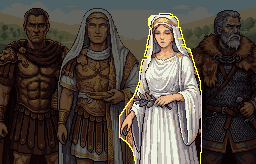
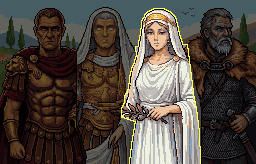
Class-select picker re-made with a seed; the selector and tap zones fitted to it
The picker (2026-09-03) sent no seed and could not be repeated. The job
ui/class_select_picker re-makes it from the same call with seed 2005:
crisper, and each figure closer to its class portrait.

romeart.py classpicker's three dividing lines are placed again on the new
painting's outlines (the old ones cut the Legatus in half), and the old
hand fixes go. The figures are not evenly spaced, so game.json's
class_picker_columns names where each starts, and the class-select
screen's tap zones follow it instead of equal quarters.

diff --git a/tools/romeart.py b/tools/romeart.py
@@ -3438,8 +3438,9 @@ def cmd_classpicker(a):
     """Writes art/ui/class_select_picker_0..3.png from class_select_picker.png
     (read only). The landscape is found scanning each column down to the first
     dark outline (plus short sideways steps under overhangs); the figures
-    overlap, so three hand-placed dividing lines decide whose pixel is whose,
-    and three small hand fixes remain."""
+    overlap, so three hand-placed dividing lines decide whose pixel is whose.
+    The lines (and any hand fixes) are placed for the painting the job
+    ui/class_select_picker made: a new painting needs them placed again."""
     from PIL import ImageChops
     SRC = os.path.join(a.pack, 'art', 'ui', 'class_select_picker.png')
     DIM = 150                  # black over the other figures, out of 255
@@ -3458,9 +3459,10 @@ def cmd_classpicker(a):
             bg[y][x]=True
     # hand-drawn dividers between neighbours: x as a polyline in y
     DIV=[
-     [(60,0),(60,40),(68,48),(65,56),(62,64),(60,72),(58,80),(58,96),(57,120),(58,164)],
-     [(124,0),(124,20),(130,48),(140,56),(142,62),(140,72),(140,80),(134,96),(128,104),(120,116),(120,136),(128,142),(133,150),(136,164)],
-     [(186,0),(186,40),(190,52),(194,66),(199,80),(201,100),(201,140),(199,164)],
+     [(72,0),(72,36),(79,42),(78,44),(77,46),(76,48),(76,58),(77,64),(77,80),(78,96),(80,112),(82,128),(84,144),(86,164)],
+     [(133,0),(133,30),(135,40),(136,50),(137,54),(135,60),(134,64),(132,68),(131,72),(130,76),(129,84),(129,88),
+      (125,96),(125,102),(122,108),(122,116),(136,121),(135,124),(134,130),(133,136),(132,142),(131,150),(130,158),(130,164)],
+     [(186,0),(186,30),(187,48),(189,64),(191,80),(193,96),(196,112),(198,128),(200,164)],
     ]
     def divx(poly,y):
         for (x0,y0),(x1,y1) in zip(poly,poly[1:]):
@@ -3504,13 +3506,8 @@ def cmd_classpicker(a):
                 x=e
             else: x+=1
     # hand fixes: (x0,y0,x1,y1) inclusive
-    FORCE_BG=[(22,33,26,39)]          # trees showing beside the Legatus's neck
-    FORCE_FIG=[(160,15,162,15),(152,16,162,16),(151,17,162,17),(150,18,162,18)]+[(149,y,162,y) for y in range(19,25)]
-                                      # the top of the Sibylla's veil and fillet
-    FORCE_FIG+=[(93,8,101,8),(90,9,104,9),(89,10,107,10),(89,11,107,11),(91,12,108,12),
-                (90,13,109,13),(89,14,110,14),(88,15,110,15),(88,16,111,16)]
-                                      # the top of the Praetorianus's hood: its outline is
-                                      # lighter than TH, so the scan runs on into the hood
+    FORCE_BG=[]
+    FORCE_FIG=[]
     for x0,y0,x1,y1 in FORCE_BG:
         for y in range(y0,y1+1):
             for x in range(x0,x1+1):

diff --git a/src/startup.c b/src/startup.c
@@ -608,6 +608,23 @@ static bool run_title_menu(const Resources *res, const Sprites *sprites,
 // Class selection: every class in the catalog (legacy: the first four).
 // ---------------------------------------------------------------------------
 
+// Figure k's column of the picker drawn at (px, pw): the pack's
+// class_picker_columns when it gives one boundary per pair of neighbours
+// (the figures are not evenly spaced), else equal columns.
+static void class_column(const Resources *res, const Sprites *sprites, int px, int pw,
+                         int n, int k, int *x, int *w) {
+    int cn = res->sprites.class_picker_column_count, aw = sprites->class_picker.width;
+    if (cn == n - 1 && aw > 0) {
+        int lo = k > 0 ? res->sprites.class_picker_columns[k - 1] : 0;
+        int hi = k < n - 1 ? res->sprites.class_picker_columns[k] : aw;
+        *x = px + pw * lo / aw;
+        *w = pw * hi / aw - pw * lo / aw;
+    } else {
+        *x = px + k * (pw / n);
+        *w = pw / n;
+    }
+}
+
 // The class picker: the painting, the picked figure ringed and captioned.
 // class_cursor < 0: modern, before anyone is picked -- the whole painting.
 static void draw_class_select(const Resources *res, const Sprites *sprites,
@@ -661,8 +678,11 @@ static void draw_class_select(const Resources *res, const Sprites *sprites,
         // Touch: the picker art shows the classes side by side, one column
         // each; tapping a column picks that class (A-D).
         if (picker_shown)
-            for (int k = 0; k < n; k++)
-                ui_tile(px + k * (pw / n), py, pw / n, ph, KEY_A + k);
+            for (int k = 0; k < n; k++) {
+                int cx, cw;
+                class_column(res, sprites, px, pw, n, k, &cx, &cw);
+                ui_tile(cx, py, cw, ph, KEY_A + k);
+            }
         startup_bar(res->ui.startup_class_select_hint);
         return;
     }
@@ -701,8 +721,11 @@ static void draw_class_select(const Resources *res, const Sprites *sprites,
     // tap on one picks it.
     if (picker_shown) {
         int fh = (top < py + ph ? top : py + ph) - py;
-        for (int k = 0; k < n; k++)
-            ui_tile_row(px + k * (pw / n), py, pw / n, fh, TOUCH_LIST_CLASS, k);
+        for (int k = 0; k < n; k++) {
+            int cx, cw;
+            class_column(res, sprites, px, pw, n, k, &cx, &cw);
+            ui_tile_row(cx, py, cw, fh, TOUCH_LIST_CLASS, k);
+        }
     }
 }
 

diff --git a/tests/unit/test_art_manifest.c b/tests/unit/test_art_manifest.c
@@ -115,6 +115,31 @@ TEST every_rome_manifest_path_exists(void) {
     PASS();
 }
 
+TEST rome_picker_columns_split_the_painting(void) {
+    // The class painting's figures are not evenly spaced: the pack names
+    // where each one after the first starts, one boundary per neighbour pair,
+    // rising left to right inside the 256 px painting.
+    Pack *p = pack_open("assets/glory-of-rome");
+    ASSERT(p);
+    pack_stack_push(p);
+    Resources *r = calloc(1, sizeof *r);
+    bool ok = r && resources_load(r, "game.json");
+    int cn = ok ? r->sprites.class_picker_column_count : -1;
+    int cols[RES_PICKER_COLUMNS] = { 0 };
+    if (ok) memcpy(cols, r->sprites.class_picker_columns, sizeof cols);
+    int classes = ok ? r->classes_count : 0;
+    if (r) resources_free(r);
+    free(r);
+    pack_stack_pop();
+    ASSERT(ok);
+    ASSERT_EQ(classes - 1, cn);
+    for (int i = 0; i < cn; i++) {
+        ASSERT(cols[i] > (i ? cols[i - 1] : 0));
+        ASSERT(cols[i] < 256);
+    }
+    PASS();
+}
+
 static bool manifest_has(int n, const char *path) {
     for (int i = 0; i < n; i++)
         if (strcmp(s_paths[i], path) == 0) return true;
@@ -346,6 +371,7 @@ SUITE(unit_art_manifest_suite) {
     RUN_TEST(manifest_covers_every_category);
     RUN_TEST(placed_object_names_come_from_map_art);
     RUN_TEST(every_rome_manifest_path_exists);
+    RUN_TEST(rome_picker_columns_split_the_painting);
     RUN_TEST(castle_art_follows_the_footprint);
     RUN_TEST(terrain_art_is_listed_per_tile_set);
     RUN_TEST(a_tile_set_may_override_single_arts);

diff --git a/engine/include/resources.h b/engine/include/resources.h
@@ -19,6 +19,7 @@
 #define RES_SIGN_TITLE_LEN    64
 #define RES_SIGN_BODY_LEN    256   // Rome's longest is 147 (#135)
 #define RES_PATH_LEN         128
+#define RES_PICKER_COLUMNS   7     // class picker tap-zone boundaries: up to eight figures
 // Indexed by raw map byte, so the table spans the whole byte range: a map
 // file's code can be any of 256 values and always indexes this table. A map
 // that uses a code above 127 is not plain ASCII -- the reader is byte-wise, so
@@ -1690,6 +1691,10 @@ typedef struct {
         // in catalog order (tools/romeart.py classpicker).
         int  class_picker_selected_count;
         char (*class_picker_selected)[RES_PATH_LEN];   // heap, one per class
+        // Where each figure after the first starts, in the picker's own
+        // pixels (left to right): the tap zones. None: equal columns.
+        int  class_picker_column_count;
+        int  class_picker_columns[RES_PICKER_COLUMNS];
         // Palette colour name (e.g. "YELLOW") for the frame the shell draws
         // round every panel slot: HUD panels, inventory cells, contract face.
         // Empty: the shell draws no frame and the art carries its own.

diff --git a/engine/resources.c b/engine/resources.c
@@ -1382,6 +1382,14 @@ static void parse_sprites(Resources *res, cJSON *obj) {
                  res_json_str(ui, "class_highlight", ""));
         res_parse_path_list(cJSON_GetObjectItem(ui, "class_picker_selected"),
                         &res->sprites.class_picker_selected, &res->sprites.class_picker_selected_count);
+        cJSON *cols = cJSON_GetObjectItem(ui, "class_picker_columns");
+        res->sprites.class_picker_column_count = 0;
+        if (cJSON_IsArray(cols)) {
+            int nc = cJSON_GetArraySize(cols);
+            if (nc > RES_PICKER_COLUMNS) nc = RES_PICKER_COLUMNS;
+            res_json_int_array(ui, "class_picker_columns", res->sprites.class_picker_columns, nc);
+            res->sprites.class_picker_column_count = nc;
+        }
     }
 
     cJSON *hud = cJSON_GetObjectItem(obj, "hud");

diff --git a/docs/ROME-ART.md b/docs/ROME-ART.md
@@ -3,7 +3,7 @@
 **Generated** by `tools/romeart.py prompts` from `art/jobs/*.json`. Do not
 edit by hand: change the job file and run the tool again.
 
-392 jobs. A job with a **Pack path** has produced that file in the pack; a
+393 jobs. A job with a **Pack path** has produced that file in the pack; a
 job without one has produced a step towards it (the still an animation starts
 from). The routes themselves -- which engine, which settings, and why -- have
 been in `docs/ART-PIPELINE.md`; each job's run history has been in its own
@@ -1442,6 +1442,13 @@ been in `docs/ART-PIPELINE.md`; each job's run history has been in its own
 - **Pack path:** `art/ui/backdrop_town_oriens.png`
 - **prompt:** an empty colonnaded avenue in an eastern Roman city, tall limestone columns with striped awnings between them, a tetrapylon at the far end, pale stone paving, dry hills beyond, low golden light, the avenue deserted, no people anywhere
 - **Settings:** `bypass_prompt_expansion=true`, `figure=false`, `height=102`, `raw_only=true`, `seed=6704`, `style=rd_pro__default`, `target=[240, 102]`, `width=240`
+
+### ui/class_select_picker
+
+- **Engine:** Retro Diffusion rd_pro__default (256x164, seed 2005)
+- **Pack path:** `art/ui/class_select_picker.png`
+- **prompt:** The same four Romans standing shoulder to shoulder and filling the frame from top to bottom, shown from the knees up, evenly spaced, left to right: the general in the bronze muscled cuirass with the deep red cloak; the priest with no helmet, his head covered by a white toga hood over a gilded cuirass, holding a bronze dish; the priestess in white robes and veil with a gold fillet, holding a green laurel sprig; the grey-bearded frontier commander in iron mail under a russet fur mantle; only a narrow strip of Italian landscape visible behind them
+- **Settings:** `figure=false`, `height=164`, `raw_only=true`, `reference_image_paths=["assets/glory-of-rome/art/classes/legatus_portrait.png", "assets/glory-of-rome/art/classes/praetorianus_portrait.png", "assets/glory-of-rome/art/classes/sibylla_portrait.png", "assets/glory-of-rome/art/classes/dux_portrait.png"]`, `seed=2005`, `style=rd_pro__default`, `target=[256, 164]`, `width=256`
 
 ### ui/combat_fly
 

diff --git a/docs/PACK-FORMAT.md b/docs/PACK-FORMAT.md
@@ -415,7 +415,10 @@ borrowed as described:
   (all three or none; otherwise the title has been `splash_title`, still).
 - `class_picker`, `class_highlight`, `class_picker_selected` (one per class,
   in catalog order): the class painting, its cursor glow and the painting
-  with each figure picked out.
+  with each figure picked out. `class_picker_columns`: where each figure
+  after the first starts, in the painting's own pixels, one per pair of
+  neighbours -- the tap zones, for figures not evenly spaced; absent, the
+  painting is tapped in equal columns.
 - `chrome_overworld`: a bitmap frame (absent, the modern lattice);
   `panel_frame`: a palette colour name for legacy's panel frames (§6).
 - `puzzle_cover`: the chip over each puzzle piece still to be won;
